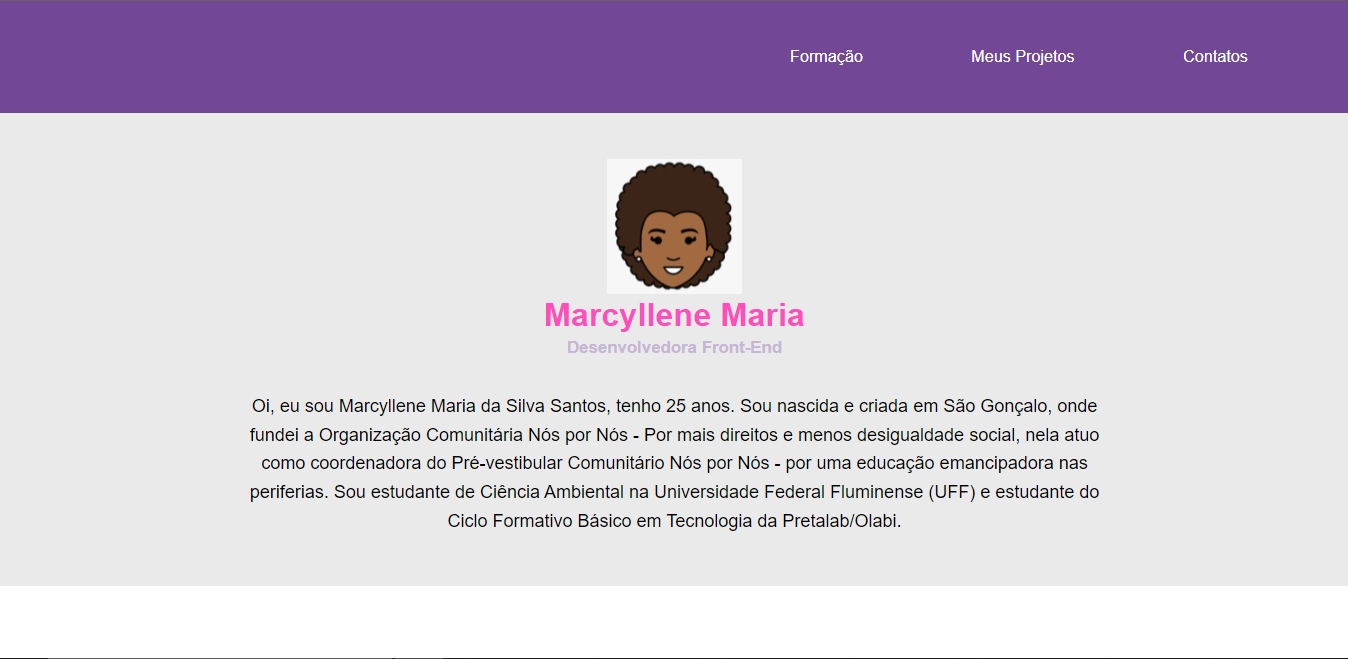
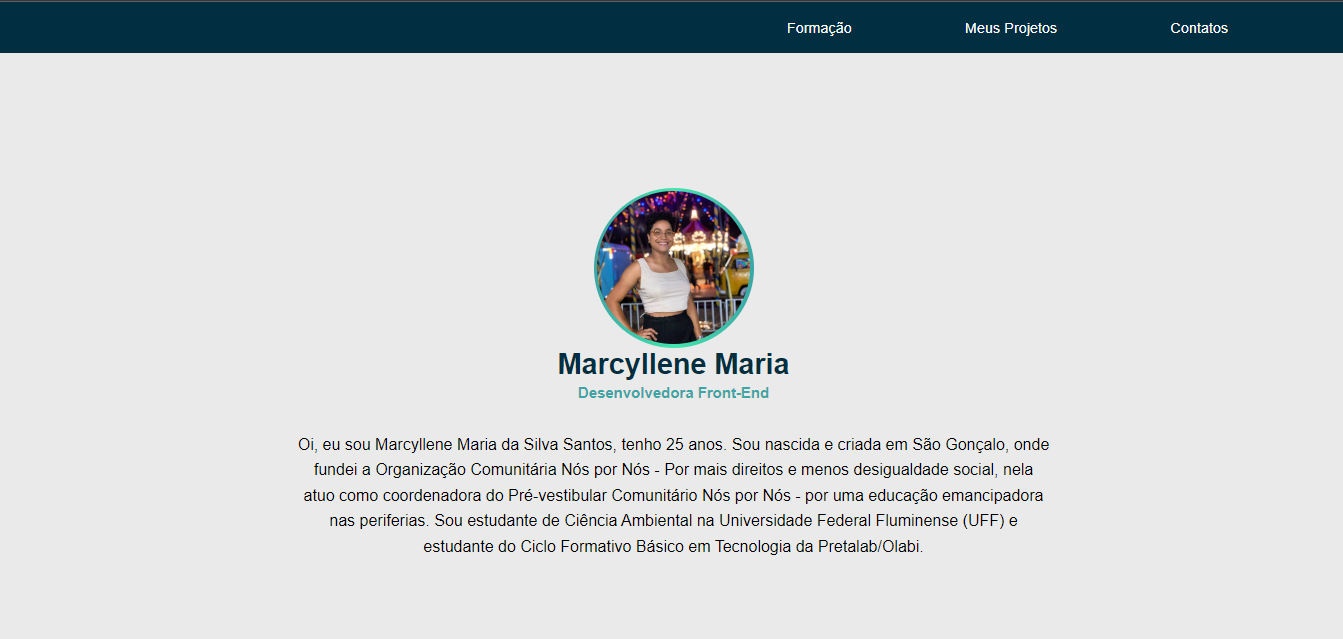
atualizações na imagem e no css

Changed region(s): [[0.0, 0.0, 1.0, 0.1784], [0.1832, 0.6541, 0.8243, 0.8623], [0.1832, 0.2379, 0.8243, 0.6244]]

diff --git a/style.css b/style.css
@@ -6,9 +6,10 @@
     padding: 0;
     /* para configurar uma ou mais das propriedades de contorno */
     outline: 0;
+    box-sizing: border-box;
 }
 
-body{
+body {
     /* Definindo a fonte de todo nosso body */
     font-family: 'Roboto', sans-serif;
     margin: 0;
@@ -19,7 +20,7 @@ li {
     list-style: none;
 }
 
-.header-menu{
+.header-menu {
     /* // Torna o elemento um flex container automaticamente transformando todos os seus filhos diretos em flex itens. */
     display: flex;
     position: fixed; /*Deixa o nosso header fixo*/
@@ -37,7 +38,7 @@ li {
     width: 100%; /*Largura*/
 }
 
-.lista-menu{
+.lista-menu {
     display: flex;
     justify-content: space-evenly; /*Espaçamento entre eles seja igual*/
     width: 50%; 
@@ -52,7 +53,7 @@ li {
     text-decoration: inherit;
 }
 
-.principal{
+.principal {
     height: 100vh;
     display: flex;
     background-color: #EAEAEA;
@@ -71,7 +72,7 @@ centro do browser. O container é invisível. */
     width: 100%; /*largura*/
 }
 
-.subcontainer-principal{
+.subcontainer-principal {
     display: flex;
     flex-direction: column;
     justify-content: center;
@@ -101,12 +102,12 @@ centro do browser. O container é invisível. */
     color: #024959;
 }
 
-
 .section-lista {
     display: flex;
     margin-bottom: 200px;
     flex-direction: column;
 }
+
 .lista-item {
     padding: 32px;  /*espaçamento dos 4 lados*/
 }
@@ -120,6 +121,7 @@ centro do browser. O container é invisível. */
     font-size: 22px;
     color: #024959;
     font-weight: 700;
+    line-height: 32px;
 }
 
 .lista-local {
@@ -188,4 +190,19 @@ centro do browser. O container é invisível. */
     display: flex;
     align-items: center;
     flex-direction: row;
+}
+
+.imagem-principal {
+    width: 200px;
+    height: 200px;
+    margin: auto;
+    background-image: linear-gradient(90deg, #3CA6A6 0%, #43E7AD 50.52%, #3CA6A6 100%);
+    border-radius: 100%;
+    display: flex;
+    padding: 4px;
+    transition: transform .3s;
+}
+
+main div img:hover {
+    transform: scale(1.1);
 }

diff --git a/index.html b/index.html
@@ -31,7 +31,7 @@
     <section class="principal">
     <div class="subcontainer-principal container">
         <div>
-            <img src="img/Foto-perfil.jpeg">
+            <img class="imagem-principal" src="img/foto-perfil.jpg">
         </div>
 
         <div> 
@@ -48,7 +48,7 @@
     <section class="formacao" id="formacao">
         <div class="container section-lista">
            <div>
-            <h3 class="topico-principal">Formação</h3> 
+            <h3 class="topico-principal"> 🚀 Formação</h3> 
         </div>
         <div class="lista-item">
             <ul>
@@ -67,7 +67,7 @@
     <section class="ensino-superior" id="ensino-superior">
         <div class="container section-lista">
            <div>
-            <h3 class="topico-principal">Ensino Superior</h3> 
+            <h3 class="topico-principal"> ♻ Ensino Superior</h3> 
         </div>
         <div class="lista-item">
             <ul>
@@ -85,7 +85,7 @@
     <section class="projetos" id="portfolio">
         <div class="container section-lista">
             <div> 
-                <h3 class="topico-principal">Meus Projetos</h3> 
+                <h3 class="topico-principal">💻 Meus Projetos</h3> 
             </div>
             <div class="lista-item">
             <ul>
